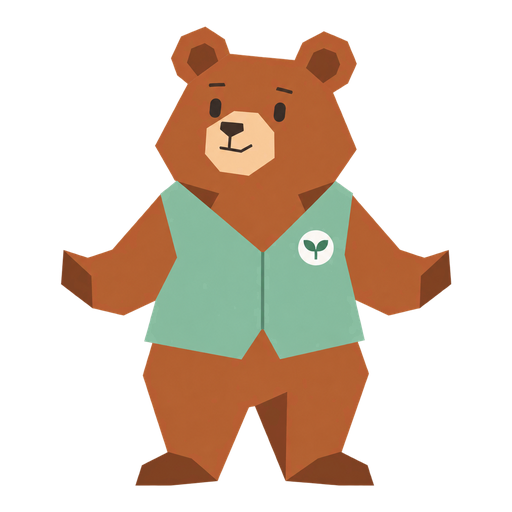
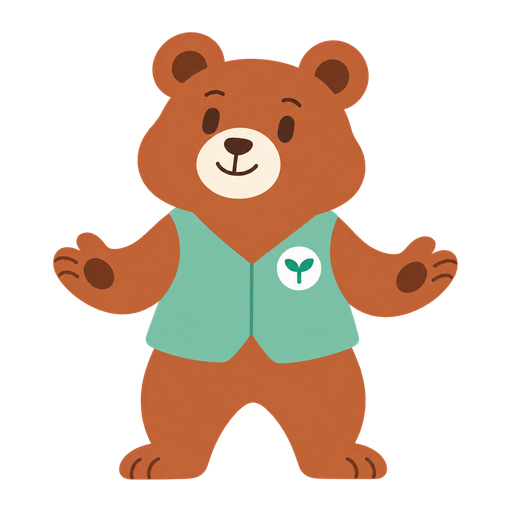
feat: 診断キャラクター10体を丸い非幾何学的な絵柄へ更新

Changed region(s): [[0.0938, 0.0312, 0.9062, 0.9688]]

diff --git a/app/public/images/diagnosis/characters/README.md b/app/public/images/diagnosis/characters/README.md
@@ -1,7 +1,7 @@
 # 活動スタイルのキャラクター
 
 Volunty の診断結果を親しみやすく伝えるためのオリジナル動物キャラクターです。
-承認済みのシンプルな多角形タッチをもとに生成した、背景透過 PNG を使用しています。
+承認済みの丸い輪郭をもとに、幾何学的な面を使わないやわらかなタッチで生成した背景透過 PNG を使用しています。
 
 - 表示名・キャッチコピー・対応関係: `app/src/lib/diagnosis-scale/style-characters.ts`
 - 本診断・お試し診断の共通表示: `app/src/app/diagnosis/components/ActivityStyleHero.tsx`
